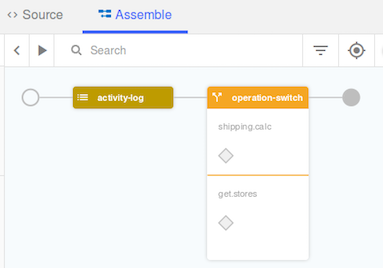
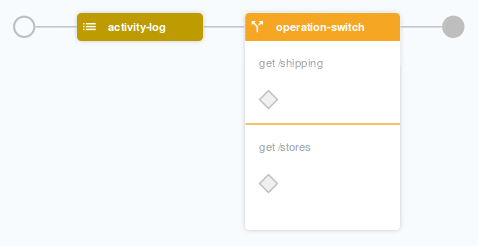
updating for 5010

diff --git a/lab-guide/Lab 5 - Advanced API Assembly/README.md b/lab-guide/Lab 5 - Advanced API Assembly/README.md
@@ -68,7 +68,7 @@ In this tutorial, you will expand the product offerings for **ThinkIBM**. In add
 
 1. Click on `Base Path` menu option and set the base path to `/financing`.
 
-	![]()
+	![](https://github.com/ibm-apiconnect/pot-onprem-docs/raw/5010/lab-guide/img/lab5/fin_api_basepath.png)
 
 1. Click on the `Schemes` menu option, or select it from the API editor menu. Enable the `https` scheme.
 
@@ -326,7 +326,7 @@ In this tutorial, you will expand the product offerings for **ThinkIBM**. In add
 
 1. Click the `invoke` policy to open its editor.
 
-1. Set the `Invoke URL` to: `https://services.think.ibm:1443/financing/calculate`.
+1. Set the `URL` to: `https://services.think.ibm:1443/financing/calculate`.
 
 	![](https://github.com/ibm-apiconnect/pot-onprem-docs/raw/5010/lab-guide/img/lab5/fin_invoke_url.png)
 
@@ -368,17 +368,19 @@ Rather than require you to build the entire API from scratch again, you will see
 
 1. Click on the `+ Add` button to import a new `OpenAPI (Swagger 2.0)`.
 
+	![](https://github.com/ibm-apiconnect/pot-onprem-docs/raw/5010/lab-guide/img/lab5/import-logistics-api.png)
+
 1. Click on the `Select File` button to open the file browser. Navigate to the `~/home/student/lab-files/lab5` folder and choose the `api_logistics.yaml` file.
 
-	![][]
+	![](https://github.com/ibm-apiconnect/pot-onprem-docs/raw/5010/lab-guide/img/lab5/open-swager-file.png)
 
 1. Click the `import` button to import the `logistics` API definition template.
 
-	![][]
+	![](https://github.com/ibm-apiconnect/pot-onprem-docs/raw/5010/lab-guide/img/lab5/import-logistics-api-2.png)
 
 1. Click on the `logistics 1.0.0` API from the list to browse the API definition.
 
-	![][]
+	![](https://github.com/ibm-apiconnect/pot-onprem-docs/raw/5010/lab-guide/img/lab5/open-logistics-api.png)
 
 ### 5.2.2 - Create the Logistics API Assembly
 
@@ -396,9 +398,7 @@ Rather than require you to build the entire API from scratch again, you will see
 
 1. Select the `get /shipping` operation.
 
-1. Click the `+ Case` button to add a second case for the `get /stores` operation.  
-
-	![](https://github.com/ibm-apiconnect/pot-onprem-docs/raw/5010/lab-guide/img/lab5/logistics-operationswitch-cases.png)
+1. Click the `+ Case` button to add a second case for the `get /stores` operation.
 
 1. Click the `X` to close the operation switch configuration editor.
 
@@ -428,7 +428,7 @@ This operation will end up invoking two separate back-end services to acquire sh
 
 1. Hover over the `invoke_xyz` policy and click on the `clone` button to add another invoke action:
 
-	![][]
+	![](https://github.com/ibm-apiconnect/pot-onprem-docs/raw/5010/lab-guide/img/lab5/clone-invoke-action.png)
 
 1. Edit the new invoke policy with the following properties:
 
